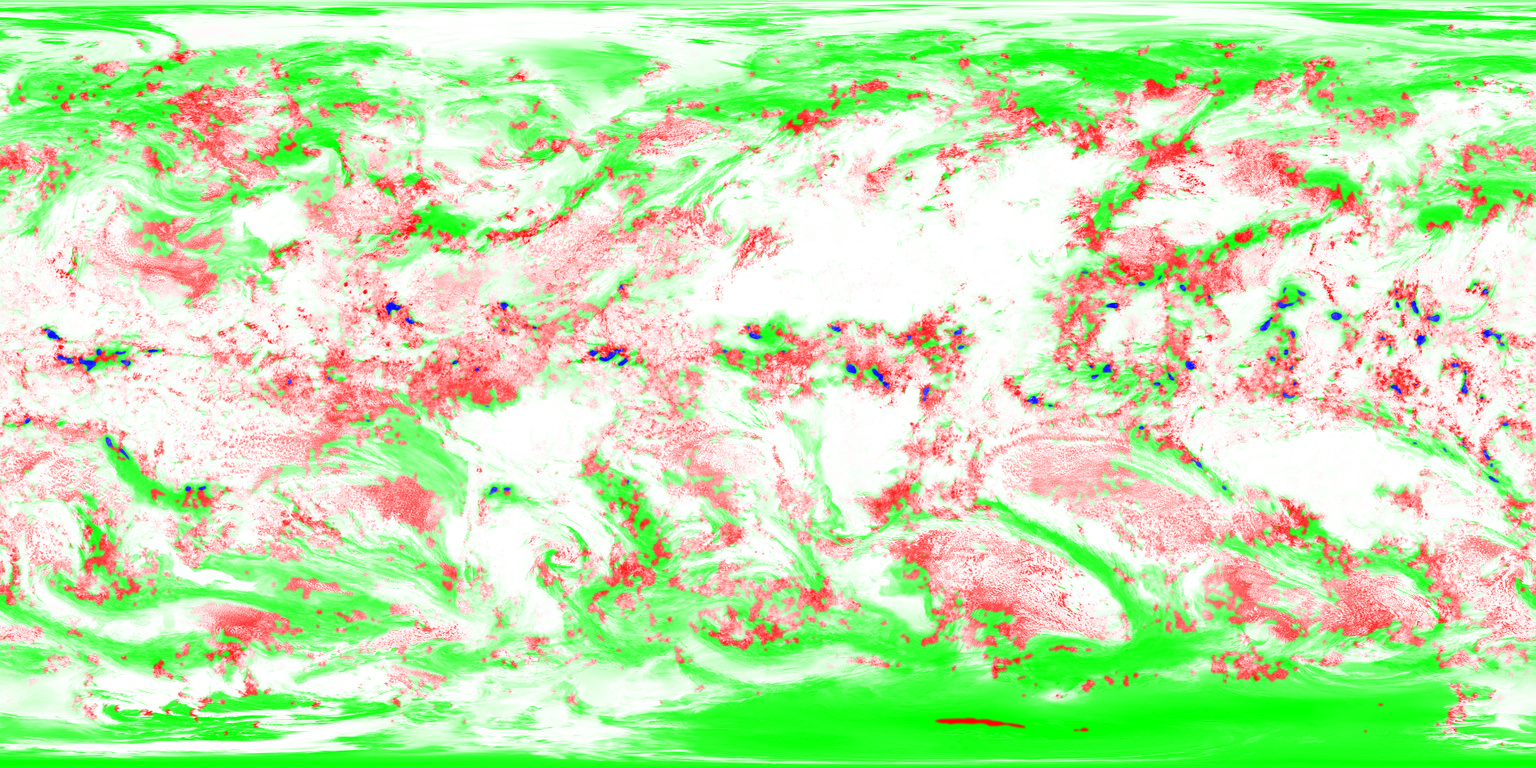
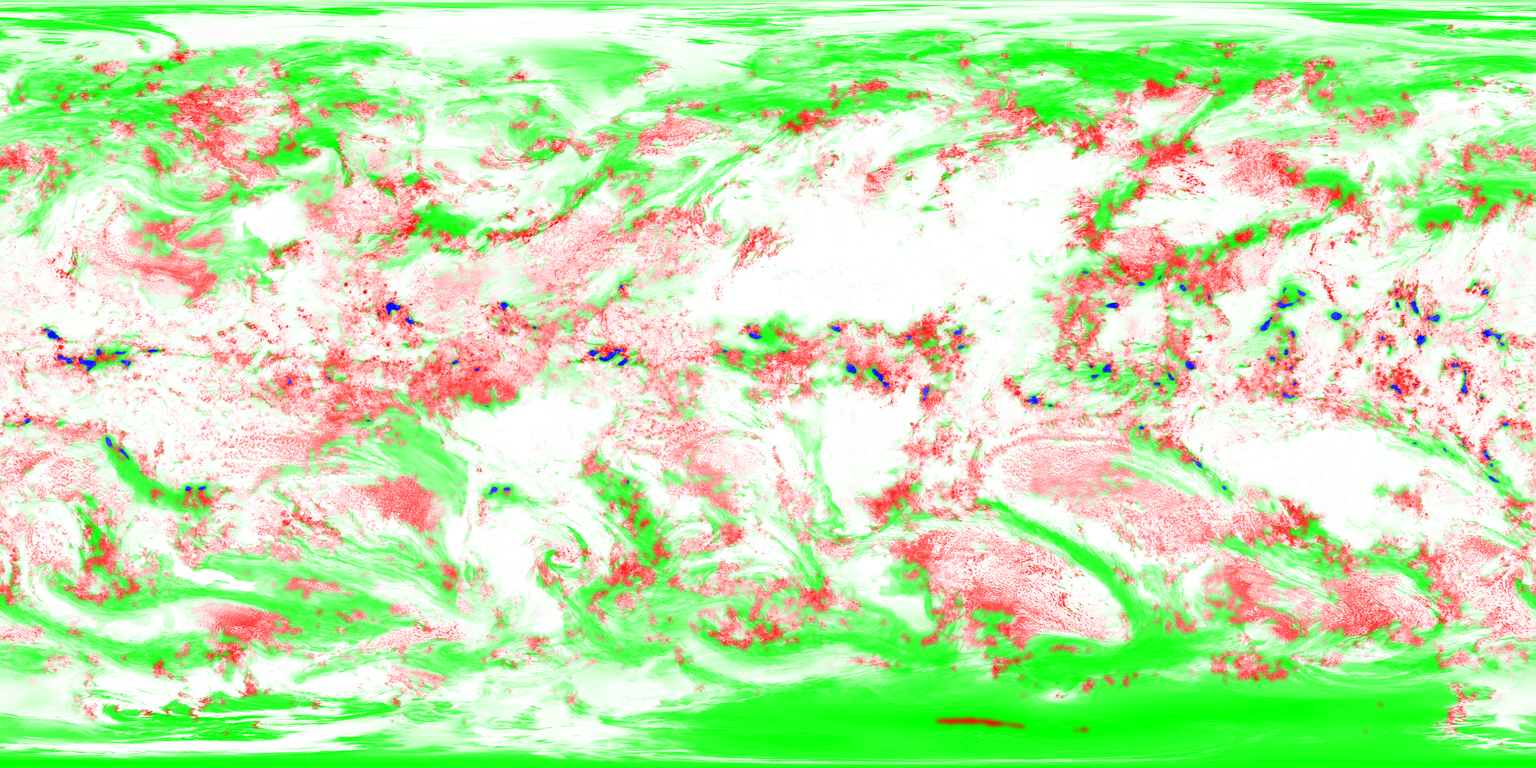
Widen Cumulus/Alto Stratus overlap to ~100 km
The two types sit at different heights and end abruptly, so seen at a
grazing angle a narrow border shows a slit between the end of one layer
and the start of the other. The overlap is now set in km (OVERLAP_KM).

Claude-Session: https://claude.ai/code/session_01FATooboYGdYy2uKnWTDHmD

diff --git a/Tools/classify_cloud_types.py b/Tools/classify_cloud_types.py
@@ -11,9 +11,11 @@
     B — доля грозовых ядер     → Cumulonimbus Map
     A — облачность (уменьшенная исходная карта, только для превью и проверки)
 
-В каждой точке R + G + B = 1. Зернистые и ровные на границе заходят друг на друга на ~40 км: там обе
-доли больше нуля, и HDRP рисует смешанный тип — и кучевой слой, и слоистый над ним. Так между типами
-нет пустой полосы. Шире не надо: смешанный тип рисует оба слоя, и вся карта стала бы смешанной.
+В каждой точке R + G + B = 1. Зернистые и ровные на границе заходят друг на друга на OVERLAP_KM в каждую
+сторону: там обе доли больше нуля, и HDRP рисует смешанный тип — и кучевой слой, и слоистый над ним.
+Слои у типов на разной высоте (кучевой ~3–21% толщины слоя облаков, слоистый ~31–47%) и обрываются
+резко; без перекрытия на границе под углом к горизонту видна щель между концом одного слоя и началом
+другого. С перекрытием конец каждого слоя лежит над (или под) другим слоем.
 
 Названия — по картам HDRP, а не по метеорологии: «зернистые» — это и кучевые, и слоисто-кучевые
 ячейки; «ровные» — фронты, высокослоистые, перистые пелены, низкие слоистые; «грозовые ядра» —
@@ -36,7 +38,7 @@ from PIL import Image
 
 WORK_W, WORK_H = 4096, 2048   # ~10 км на пиксель — на этом масштабе считаются признаки и подобраны пороги
 OUT_W, OUT_H = 2048, 1024     # ~20 км на пиксель — карта типов (типы меняются от района к району)
-OVERLAP_R = 2                 # перекрытие зернистых и ровных на границе: размытие ±2·2 пикселя ≈ ±40 км
+OVERLAP_KM = 100              # на сколько зернистые и ровные заходят друг на друга на границе, км
 
 
 def box(a, r):
@@ -92,7 +94,8 @@ def classify(src_path):
     w_st = 1 - w_cb - w_cu
 
     # перекрытие на границе: обе доли размываются и снова делят то, что осталось от грозовых
-    o_cu, o_st = blur(w_cu, OVERLAP_R), blur(w_st, OVERLAP_R)
+    r = max(1, round(OVERLAP_KM / 20))   # размытие тянется на ±2r пикселей по ~10 км
+    o_cu, o_st = blur(w_cu, r), blur(w_st, r)
     k = (1 - w_cb) / np.maximum(o_cu + o_st, 1e-9)
     w_cu, w_st = o_cu * k, o_st * k
 

diff --git a/Clouds/CloudShell_Graph.md b/Clouds/CloudShell_Graph.md
@@ -187,7 +187,7 @@ HDRP не знает о повороте планеты, поэтому `SimpleP
 - покрытие после порога растягивается на `coverageStart`..1: ниже ~0.4 HDRP не рисует ничего, поэтому самое
   тонкое облако карты — уже редкие клочья, а доля неба под облаками растёт с альфой карты почти линейно.
   Так и у объёмных облаков, и у деталей сферы нет обрыва в пустоту там, где плотное переходит в тонкое;
-- на границе зернистые и ровные заходят друг на друга на ~40 км (это делает утилита разметки) — там HDRP
+- на границе зернистые и ровные заходят друг на друга на ~100 км (`OVERLAP_KM` в утилите разметки) — там HDRP
   рисует смешанный тип с обоими слоями;
 - грозовые — только там, где их доля не меньше половины (в HDRP они заменяют остальные типы). Значение —
   развитость (высота башни), покрытие у них в HDRP всегда 0.75.
